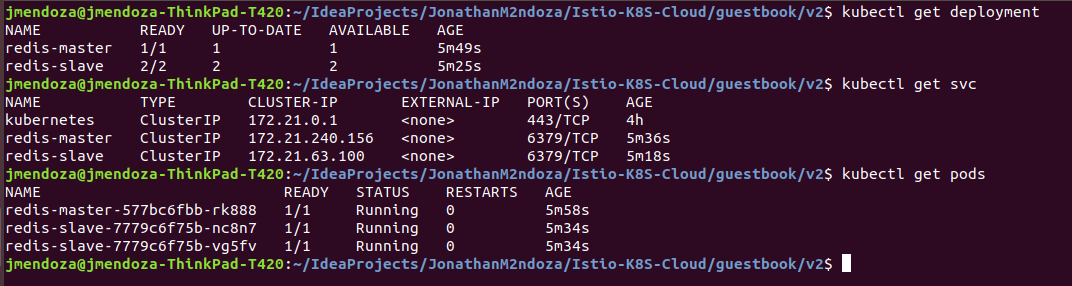
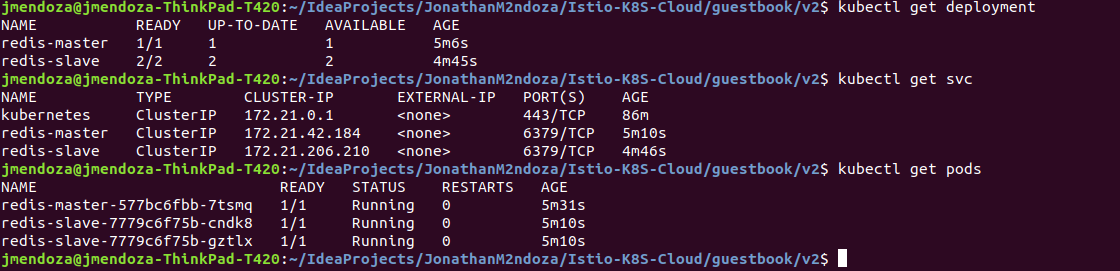
Update README.md

Changed region(s): [[0.0, 0.0, 1.0, 1.0], [0.2771, 0.2066, 0.3386, 0.2362], [0.1847, 0.1476, 0.2155, 0.1771]]

diff --git a/README.md b/README.md
@@ -40,6 +40,11 @@ Ensure the corresponding pods istio-citadel-*, istio-ingressgateway-*, istio-pil
 
 ![Screenshot](prtsc/Istio-K8S-Cloud-11.png)
 
+## Download the Guestbook app and create the Redis database
+
+Create the Redis controllers and services for both the master and the slave:
+
+![Screenshot](prtsc/Istio-K8S-Cloud-13.png)
 
 
 
